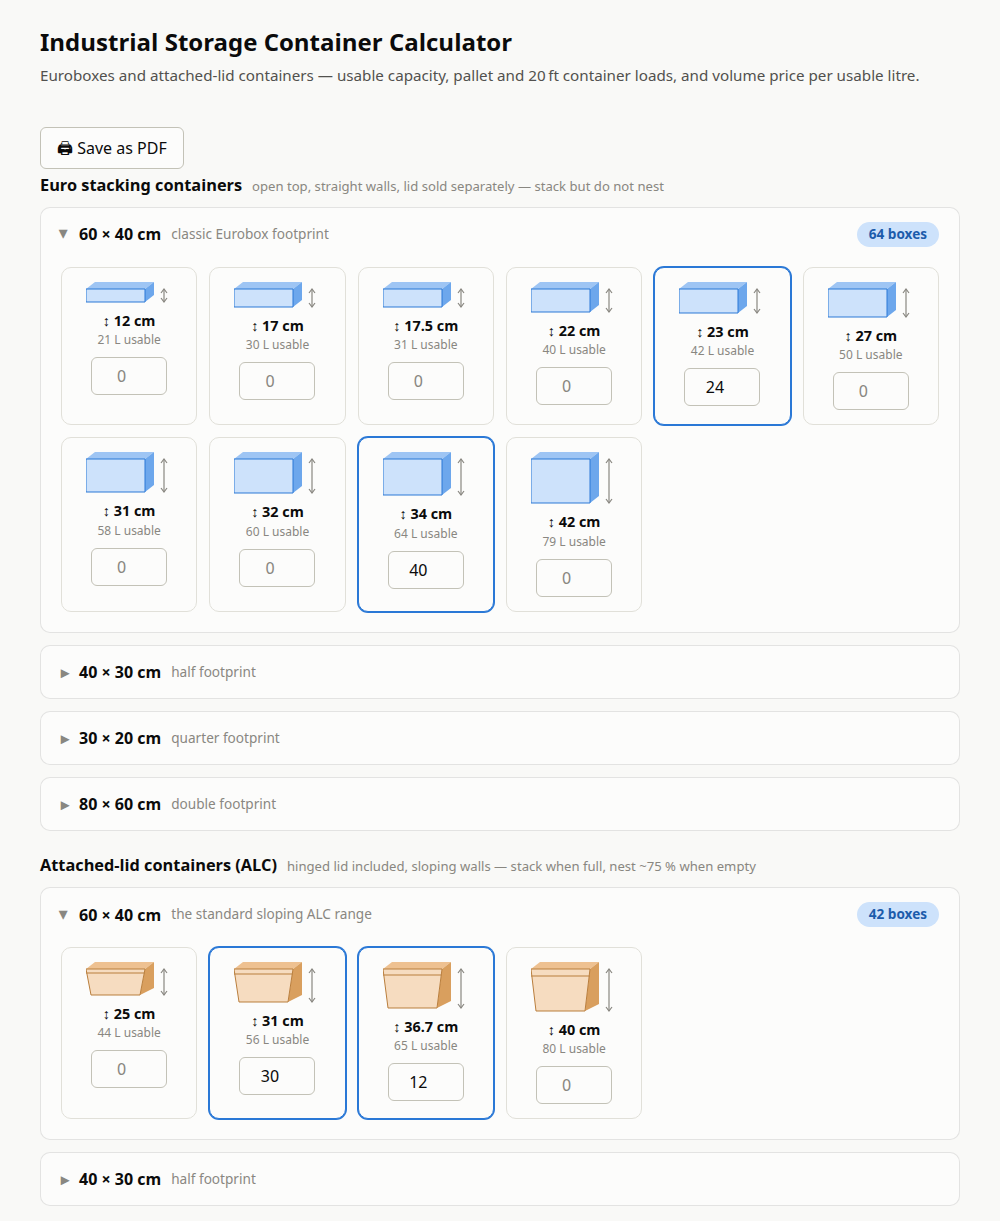
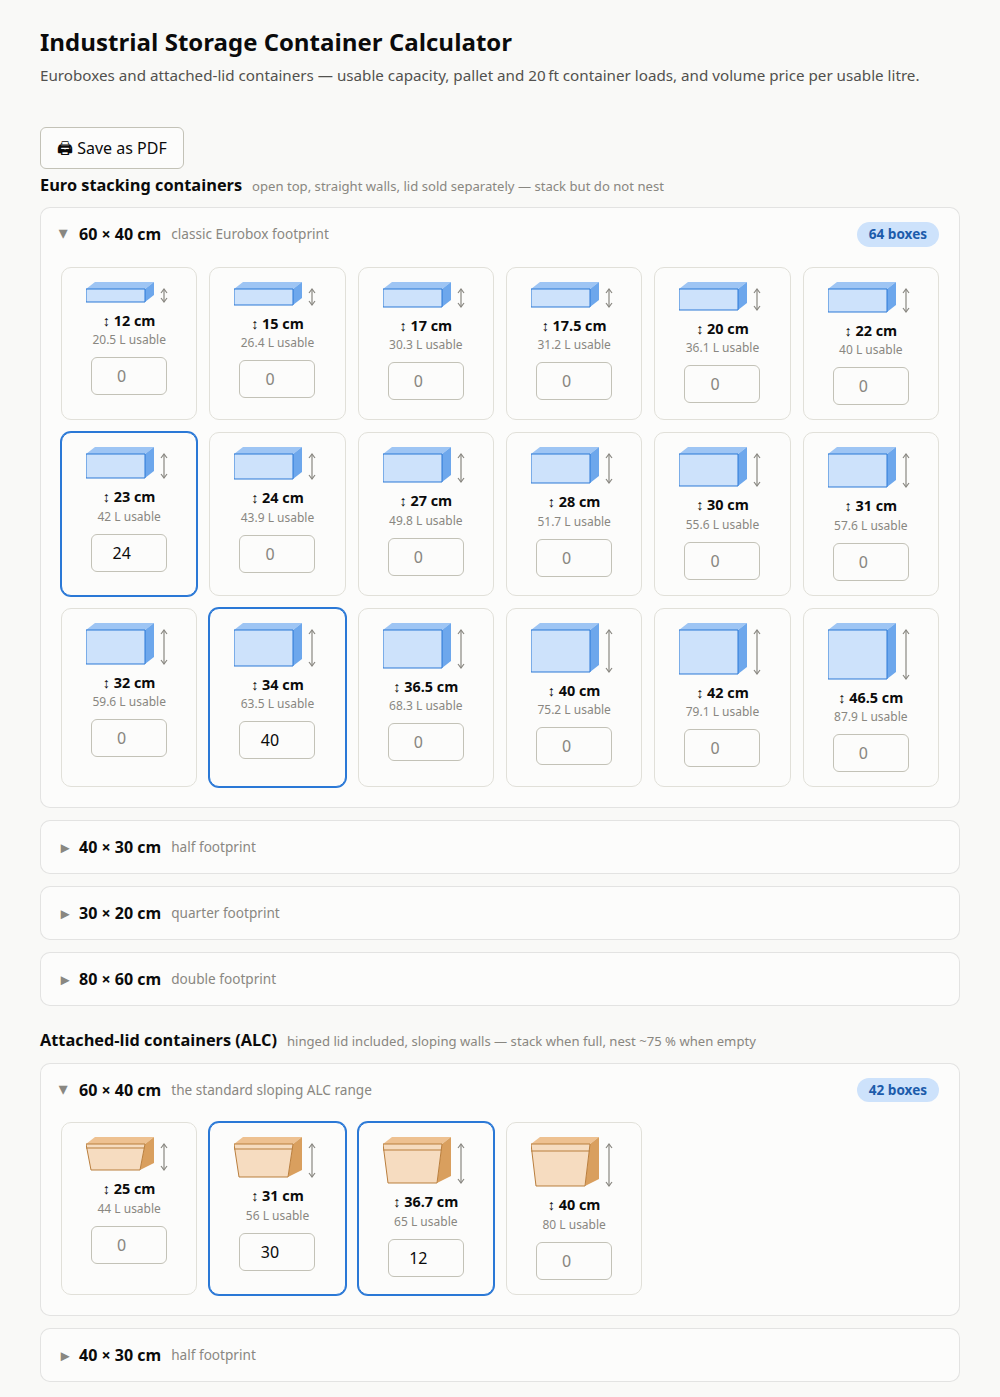
Expand the Euro height catalogue to the full observed series
600x400 goes from 10 heights to 18, 400x300 from 5 to 9, 300x200 from 3 to 4
— the sizes actually observed on sale across the captured UK and Israeli
vendors, near-duplicate mouldings merged to the round figure (315 -> 310,
365/370 -> 365, 415/420 -> 420). 41 catalogue sizes in total.

No standard defines the consumer Euro height series; only the three VDA KLT
heights are specified anywhere. The rest is what manufacturers converged on,
which is why the series is irregular. Documented as observed-on-sale rather
than specified.

Capacities are regenerated from the dataset's build.py, so 60x40x34 refines
from a rounded 64 L to the derived 63.5 L. That moves the README worked
example to 3,810 L at ₪2.41/L, beating the ALC by 10% rather than 11%;
verified against the rendered app output. Screenshots regenerated for the
larger catalogue.

diff --git a/index.html b/index.html
@@ -587,16 +587,20 @@ const FAMILIES = {
 const GROUPS = [
   { fam: "euro", L: 600, W: 400, name: "60 × 40 cm", sub: "classic Eurobox footprint", open: true,
     sizes: [
-      { H: 120, cap: 21 }, { H: 170, cap: 30 }, { H: 175, cap: 31 }, { H: 220, cap: 40 },
-      { H: 230, cap: 42 }, { H: 270, cap: 50 }, { H: 310, cap: 58 }, { H: 320, cap: 60 },
-      { H: 340, cap: 64 }, { H: 420, cap: 79 },
+      { H: 120, cap: 20.5 }, { H: 150, cap: 26.4 }, { H: 170, cap: 30.3 }, { H: 175, cap: 31.2 }, { H: 200, cap: 36.1 },
+      { H: 220, cap: 40 }, { H: 230, cap: 42 }, { H: 240, cap: 43.9 }, { H: 270, cap: 49.8 }, { H: 280, cap: 51.7 },
+      { H: 300, cap: 55.6 }, { H: 310, cap: 57.6 }, { H: 320, cap: 59.6 }, { H: 340, cap: 63.5 }, { H: 365, cap: 68.3 },
+      { H: 400, cap: 75.2 }, { H: 420, cap: 79.1 }, { H: 465, cap: 87.9 },
     ] },
   { fam: "euro", L: 400, W: 300, name: "40 × 30 cm", sub: "half footprint", open: false,
-    sizes: [ { H: 120, cap: 10 }, { H: 170, cap: 14 }, { H: 220, cap: 18 }, { H: 270, cap: 23 }, { H: 320, cap: 27 } ] },
+    sizes: [
+      { H: 120, cap: 9.6 }, { H: 150, cap: 12.2 }, { H: 170, cap: 14 }, { H: 200, cap: 16.6 }, { H: 220, cap: 18.4 },
+      { H: 230, cap: 19.2 }, { H: 240, cap: 20.1 }, { H: 270, cap: 22.8 }, { H: 320, cap: 27.1 },
+    ] },
   { fam: "euro", L: 300, W: 200, name: "30 × 20 cm", sub: "quarter footprint", open: false,
-    sizes: [ { H: 120, cap: 5 }, { H: 170, cap: 7 }, { H: 220, cap: 9 } ] },
+    sizes: [ { H: 120, cap: 4.6 }, { H: 150, cap: 5.8 }, { H: 170, cap: 6.7 }, { H: 220, cap: 8.7 } ] },
   { fam: "euro", L: 800, W: 600, name: "80 × 60 cm", sub: "double footprint", open: false,
-    sizes: [ { H: 220, cap: 82 }, { H: 320, cap: 124 }, { H: 420, cap: 165 } ] },
+    sizes: [ { H: 220, cap: 82.5 }, { H: 320, cap: 123.8 }, { H: 420, cap: 165 } ] },
 
   { fam: "alc", L: 600, W: 400, name: "60 × 40 cm", sub: "the standard sloping ALC range", open: true,
     sizes: [ { H: 250, cap: 44 }, { H: 310, cap: 56 }, { H: 367, cap: 65 }, { H: 400, cap: 80 } ] },

diff --git a/README.md b/README.md
@@ -37,9 +37,9 @@ price is illustrative):
 | Basket | Usable | Total | Volume price |
 |---|---|---|---|
 | 20 × ALC 60 × 40 × 31 @ ₪150 | 1,120 L | ₪3,000 | **₪2.68 / L** |
-| 60 × Euro 60 × 40 × 34 @ ₪153 | 3,840 L | ₪9,180 | **₪2.39 / L** |
+| 60 × Euro 60 × 40 × 34 @ ₪153 | 3,810 L | ₪9,180 | **₪2.41 / L** |
 
-The Eurobox buys volume 11 % more cheaply. The ALC's case is elsewhere: its price
+The Eurobox buys volume 10 % more cheaply. The ALC's case is elsewhere: its price
 includes a lid, and those 20 boxes collapse to 0.43 m³ when empty against the
 Eurobox's 4.90 m³.
 
@@ -74,14 +74,18 @@ list survives a reload.
 
 ## Catalogue
 
-| Family | Footprints | Heights |
+| Family | Footprints | Heights (mm) |
 |---|---|---|
-| Euro stacking | 600 × 400 | 120, 170, 175, 220, 230, 270, 310, 320, 340, 420 |
-| | 400 × 300 | 120, 170, 220, 270, 320 |
-| | 300 × 200 | 120, 170, 220 |
+| Euro stacking | 600 × 400 | 120, 150, 170, 175, 200, 220, 230, 240, 270, 280, 300, 310, 320, 340, 365, 400, 420, 465 |
+| | 400 × 300 | 120, 150, 170, 200, 220, 230, 240, 270, 320 |
+| | 300 × 200 | 120, 150, 170, 220 |
 | | 800 × 600 | 220, 320, 420 |
 | ALC | 600 × 400 | 250, 310, 367, 400 |
 | | 400 × 300 | 222, 264, 306 |
+
+41 catalogue sizes. The Euro height series is not defined by any standard — unlike
+the three VDA KLT heights, it is whatever manufacturers converged on, so these are
+the sizes observed for sale rather than a specification.
 
 Plus custom dimensions, which pick their capacity estimate from a straight-walled or
 tapered wall style. Custom sizes also appear in the comparison dropdown, so a size
